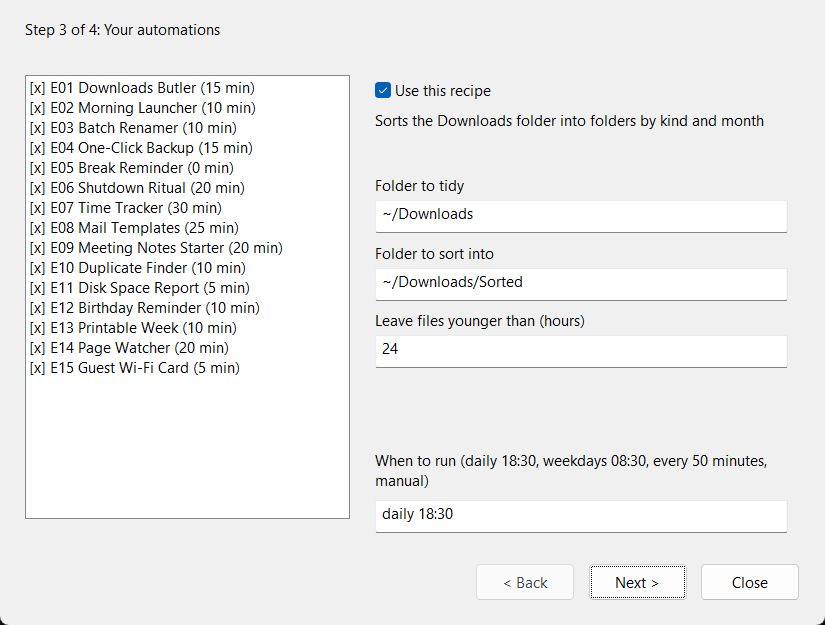
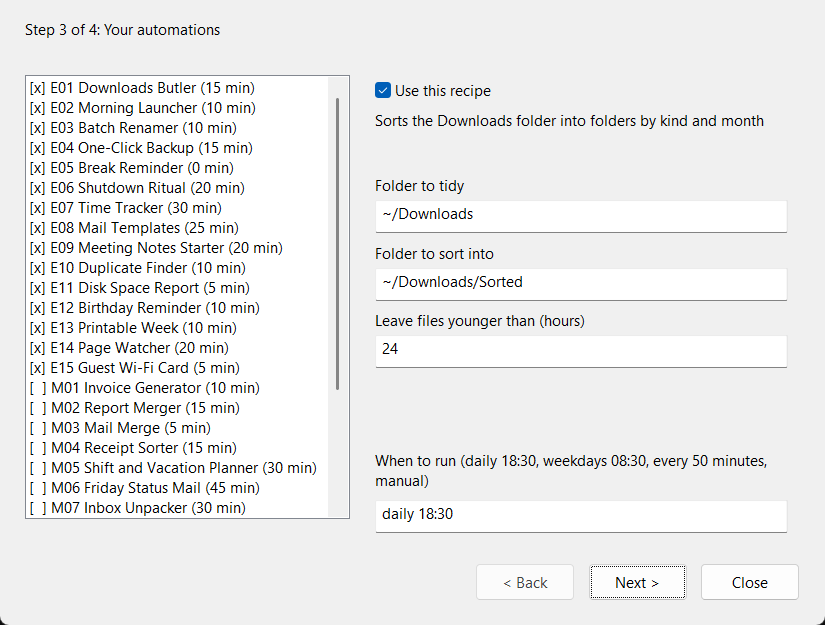
docs(book): license, disclaimer, about page, new wizard shots

Changed region(s): [[0.0303, 0.608, 0.3939, 0.8208], [0.3939, 0.152, 0.4242, 0.608]]

diff --git a/jdb/demos/automate_book/manuscript/00_legal.md b/jdb/demos/automate_book/manuscript/00_legal.md
@@ -1,0 +1,105 @@
+# Copyright and Disclaimer
+
+*Automate Your Work for a Better Life Balance*, by Achim Christ and
+Claude. Copyright © 2026 Achim Christ. All rights reserved for the text
+and the pictures, except as stated below.
+
+Publisher and legal notice (Impressum): Achim Christ,
+<https://www.atomijd.onl/impressum.html>.
+
+### The program code
+
+All program code in this book and in its `recipes` folder is licensed
+under the MIT License, printed in full below. You may use, copy, change
+and share the code, also at work and in commercial products, as long as
+the copyright notice and the license text stay with it. The same text is
+in the file `recipes/LICENSE`.
+
+```text
+MIT License
+
+Copyright (c) 2026 Achim Christ
+
+Permission is hereby granted, free of charge, to any person
+obtaining a copy of this software and associated documentation
+files (the "Software"), to deal in the Software without
+restriction, including without limitation the rights to use,
+copy, modify, merge, publish, distribute, sublicense, and/or sell
+copies of the Software, and to permit persons to whom the
+Software is furnished to do so, subject to the following
+conditions:
+
+The above copyright notice and this permission notice shall be
+included in all copies or substantial portions of the Software.
+
+THE SOFTWARE IS PROVIDED "AS IS", WITHOUT WARRANTY OF ANY KIND,
+EXPRESS OR IMPLIED, INCLUDING BUT NOT LIMITED TO THE WARRANTIES
+OF MERCHANTABILITY, FITNESS FOR A PARTICULAR PURPOSE AND
+NONINFRINGEMENT. IN NO EVENT SHALL THE AUTHORS OR COPYRIGHT
+HOLDERS BE LIABLE FOR ANY CLAIM, DAMAGES OR OTHER LIABILITY,
+WHETHER IN AN ACTION OF CONTRACT, TORT OR OTHERWISE, ARISING
+FROM, OUT OF OR IN CONNECTION WITH THE SOFTWARE OR THE USE OR
+OTHER DEALINGS IN THE SOFTWARE.
+```
+
+### Before you run a program
+
+The programs in this book move, rename, copy and delete files, add tasks
+to the Windows Task Scheduler, start other programs, read web pages and
+prepare mail. That is what makes them useful, and it is also why a
+mistake in a setting can cost you files. Read a program before you run
+it. Use its dry run first where it has one. Try it on copies of your
+files, keep a current backup, and follow the rules of your employer for
+software on a work computer. You alone decide whether a program is
+suitable for your computer, your data and your work.
+
+Examples about invoices, taxes, working hours, contracts or personal data
+show how a program can handle such material. They are not legal, tax,
+accounting or employment advice. Check the rules that apply to you with
+someone qualified to give that advice.
+
+### Disclaimer of warranty
+
+THIS BOOK, THE PROGRAMS IN IT AND ALL ACCOMPANYING FILES ARE PROVIDED
+"AS IS" AND "AS AVAILABLE", WITHOUT WARRANTY OF ANY KIND, EXPRESS OR
+IMPLIED, INCLUDING BUT NOT LIMITED TO THE IMPLIED WARRANTIES OF
+MERCHANTABILITY, FITNESS FOR A PARTICULAR PURPOSE, ACCURACY, COMPLETENESS
+AND NONINFRINGEMENT. THE AUTHORS DO NOT WARRANT THAT THE PROGRAMS WILL
+MEET YOUR REQUIREMENTS, RUN WITHOUT INTERRUPTION OR ERROR, OR WORK WITH
+YOUR HARDWARE, SOFTWARE OR DATA. THE ENTIRE RISK AS TO THE QUALITY,
+RESULTS AND PERFORMANCE OF THE PROGRAMS IS WITH YOU.
+
+### Limitation of liability
+
+TO THE FULLEST EXTENT PERMITTED BY APPLICABLE LAW, IN NO EVENT SHALL THE
+AUTHORS, THE PUBLISHER OR ANY COPYRIGHT HOLDER BE LIABLE FOR ANY DIRECT,
+INDIRECT, INCIDENTAL, SPECIAL, EXEMPLARY, PUNITIVE OR CONSEQUENTIAL
+DAMAGES, INCLUDING BUT NOT LIMITED TO LOSS OR CORRUPTION OF DATA, DAMAGE
+TO COMPUTER SYSTEMS, LOST PROFITS, BUSINESS INTERRUPTION, OR THE COST OF
+REPLACEMENT GOODS OR SERVICES, HOWEVER CAUSED AND ON ANY THEORY OF
+LIABILITY, WHETHER IN CONTRACT, STRICT LIABILITY OR TORT (INCLUDING
+NEGLIGENCE OR OTHERWISE), ARISING IN ANY WAY OUT OF THE USE OF OR THE
+INABILITY TO USE THIS BOOK OR THE PROGRAMS IN IT, EVEN IF ADVISED OF THE
+POSSIBILITY OF SUCH DAMAGE.
+
+SOME STATES AND COUNTRIES DO NOT ALLOW THE EXCLUSION OF IMPLIED
+WARRANTIES OR THE LIMITATION OF LIABILITY FOR CERTAIN DAMAGES, SO SOME
+OF THE ABOVE MAY NOT APPLY TO YOU. NOTHING IN THIS NOTICE EXCLUDES OR
+LIMITS ANY LIABILITY THAT CANNOT BE EXCLUDED OR LIMITED UNDER THE LAW
+THAT APPLIES TO YOU.
+
+### Trademarks
+
+Microsoft, Windows, Word, Excel and Outlook are trademarks of the
+Microsoft group of companies. Other product names in this book are
+trademarks of their owners. They are used only to name the products;
+the use does not mean that their owners endorse or are connected with
+this book.
+
+### About the second author
+
+Claude is an AI model made by Anthropic. Claude wrote the text and the
+programs together with Achim Christ, who set the goals, reviewed the
+work and is responsible for the book.
+
+<!-- pagebreak -->

diff --git a/jdb/demos/automate_book/PLAN.md b/jdb/demos/automate_book/PLAN.md
@@ -5,8 +5,14 @@ levels (easy, medium, expert) that take routine office work off the reader's
 desk, a setup wizard for the easy level, and a build that turns the Markdown
 manuscript into a Word document with jdBasic itself.
 
-Status, 2026-10-01: WP 0a to 0c, WP 1 and WP 2 done (chapters 1 and 2,
-73 examples checked by the build; print PDF 186 pages). WP 1: setup wizard (core
+Status, 2026-10-02: WP 0a to 0c, WP 1, WP 2 and WP 3 done; print PDF 339
+pages. WP 3: the fifteen medium recipes M01 to M15 with chapter 4, the
+outbox rule for mail (recipes/lib/outbox.jdb), the template recipe T00
+with "Your Own Recipe", and a fifth check_recipes column that compiles
+every main program; all 31 recipes green. Medium recipes came out at 8 to
+16 pages each against the 5 of the budget. A monthly schedule in the
+wizard is planned for a later chapter on changing a program. WP 2:
+chapters 1 and 2, 73 examples checked by the build. WP 1: setup wizard (core
 module, console and window front ends, recipe.toml contract) and the 15
 easy recipes, all green in check_recipes. Chapter 3 sets to about 98 pages
 against the 64 of the budget, so the book will end well above 300. Before:
@@ -362,7 +368,8 @@ All of this is plain jdBasic and testable on this notebook in both backends.
   (it writes `.eml` files) or calls a real web site (it starts a local JDWEB
   server).
 - `tools/check_recipes.jdb` runs, for every recipe: `--lint`, the test in the
-  interpreter, `-c`, the test as `.exe`. A recipe is done when all four pass.
+  interpreter, `-c`, the test as `.exe`, and `-c` of the main program. A
+  recipe is done when all five pass.
 - Recipes that need a feature this notebook lacks are marked: X02 needs an
   API key or a local model, X09 needs the SQLITE build. They are tested at
   home.

diff --git a/jdb/demos/automate_book/manuscript/99_about.md b/jdb/demos/automate_book/manuscript/99_about.md
@@ -1,0 +1,24 @@
+<!-- pagebreak -->
+
+# About the Authors
+
+**Achim Christ** created jdBasic, the language every program in this
+book is written in.
+
+His other books, in German, from the series *Die +n Bücher*:
+
+- *Das +3 Buch: Die Jäger und Sammler des digitalen Nichts*,
+  <https://www.amazon.de/dp/B0GJPG3YYJ>
+- *Das +4 Buch: Die Rückerstattung deiner Lebenszeit*,
+  <https://www.amazon.de/dp/B0GL89D6BP>
+
+His author page: <https://www.amazon.de/stores/Achim-Christ/author/B0GJS7VC2Q>
+
+jdBasic, its documentation and its releases:
+<https://github.com/AtomiJD/jdBasic>
+
+Legal notice (Impressum): <https://www.atomijd.onl/impressum.html>
+
+**Claude** is an AI model made by Anthropic. It wrote the chapters and
+the programs of this book with Achim Christ, and the build that turns
+them into this book, the e-book and the cover.

diff --git a/jdb/demos/automate_book/manuscript/02_toolbox.md b/jdb/demos/automate_book/manuscript/02_toolbox.md
@@ -82,9 +82,11 @@ nothing writes it down.
 
 ![Your automations: every recipe with the minutes it saves, its settings and its schedule](img/wizard_3.png)
 
-The third page is the heart of the wizard. On the left are all fifteen
-recipes with the minutes each one saves in a normal week; `[x]` marks
-the ones that are switched on. Click a recipe to see its settings on the
+The third page is the heart of the wizard. On the left are the recipes
+with the minutes each one saves in a normal week; `[x]` marks the ones
+that are switched on. At first these are the fifteen easy ones; the
+recipes of Chapter 4 are listed below them and stay off until you
+switch them on. Click a recipe to see its settings on the
 right. Each setting has a label and a sensible default, such as the
 folder the Downloads Butler tidies. At the bottom is the schedule:
 

diff --git a/jdb/demos/automate_book/README.md b/jdb/demos/automate_book/README.md
@@ -8,7 +8,8 @@ The plan, the outline and the page budget are in [PLAN.md](PLAN.md).
 
 ## State
 
-Work packages 0a, 0b and 0c are done: the build turns the manuscript into a
+Work packages 0 to 3 are done: chapters 1 to 4 with the fifteen easy
+and the fifteen medium recipes, 339 pages in print. The build turns the manuscript into a
 Word file, an HTML preview, a print PDF (17 x 24 cm, fonts embedded) and a
 screen PDF with bookmarks and links. Recipe E01 with its chapter pages is
 the sample. The build also draws the cover (front, and the print wrap
